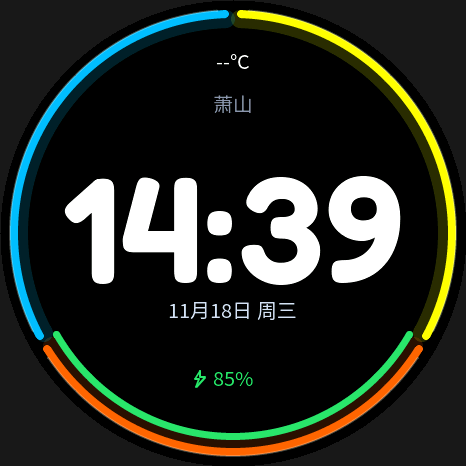
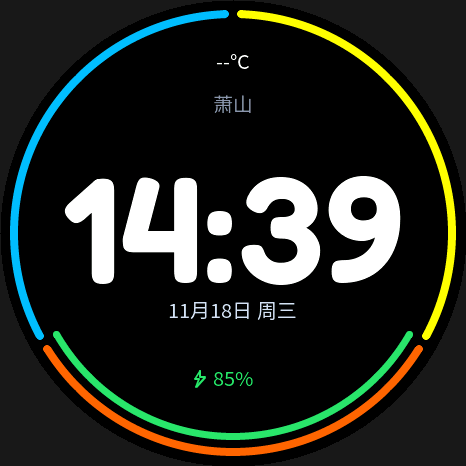
test(english-pet-watch): 补充三色环单弧回归并更新渲染图
- 断言 mk_ring_seg 只保留一条实色弧，禁止加宽半透明打底与白色外侧高光回潮。
- 更新主机渲染图，去掉黑底上可见的灰色轮廓。
- 45 项主机回归、字库检查与 ESP-IDF 编译通过。

Changed region(s): [[0.0, 0.0, 0.9914, 0.9914]]

diff --git a/projects/english-pet-watch/firmware/ui_demo/tools/test_firmware.py b/projects/english-pet-watch/firmware/ui_demo/tools/test_firmware.py
@@ -301,6 +301,16 @@ int main(void){
         self.assertNotIn("icon_bench", source)
         self.assertNotIn("ui_debug_icon_", (MAIN / "ui.c").read_text())
 
+    def test_three_color_ring_has_no_gray_underlay_or_highlight(self):
+        ui = (MAIN / "ui.c").read_text()
+        body = ui.split("static void mk_ring_seg(", 1)[1].split("\n}", 1)[0]
+        # 黑底上半透明的加宽同色弧/白色高光都会露出灰色轮廓，只允许一条实色弧。
+        self.assertEqual(body.count("mk_arc_seg("), 1, body)
+        self.assertIn("RING_WIDTH,", body)
+        self.assertNotIn("RING_WIDTH + 10", body)
+        self.assertNotIn("0xFFFFFF", body)
+        self.assertNotIn("LV_OPA_20", body)
+
 
     def test_power_registers_and_boot_hold(self):
         source = r'''#include <assert.h>

diff --git a/projects/english-pet-watch/firmware/README.md b/projects/english-pet-watch/firmware/README.md
@@ -57,6 +57,8 @@
 
 外环修正复核：使用实际 `build_dial` 及字体进行 466×466 LVGL 主机渲染，比较时间标签显示前后的两侧外环像素，4356 个亮像素保持一致；预览见 `ui_demo/screenshots/home_ring_restored.png`。该图为主机渲染，实机外环仍需用户复验。
 
+三色环绘制修正（2026-11-18）：原先每段在实色弧下方叠了一条更宽（`RING_WIDTH + 10`）的 20% 同色柔光，并在外侧叠了 30% 白色高光；两者在黑底上都会呈现为更粗的灰色/暗色环，且超出实色弧的部分露在外面。现改为只画一条 8px 实色弧，去掉柔光打底与白色高光。新增静态回归断言 `mk_ring_seg` 仅有一条 `mk_arc_seg` 调用；45 项主机回归通过，主机渲染图已更新。
+
 ## 计时器页面重构（2026-11-18）
 
 参考华为手表的预设 / 自定义 / 独立倒计时流程，适配本机 466×466 圆屏：
